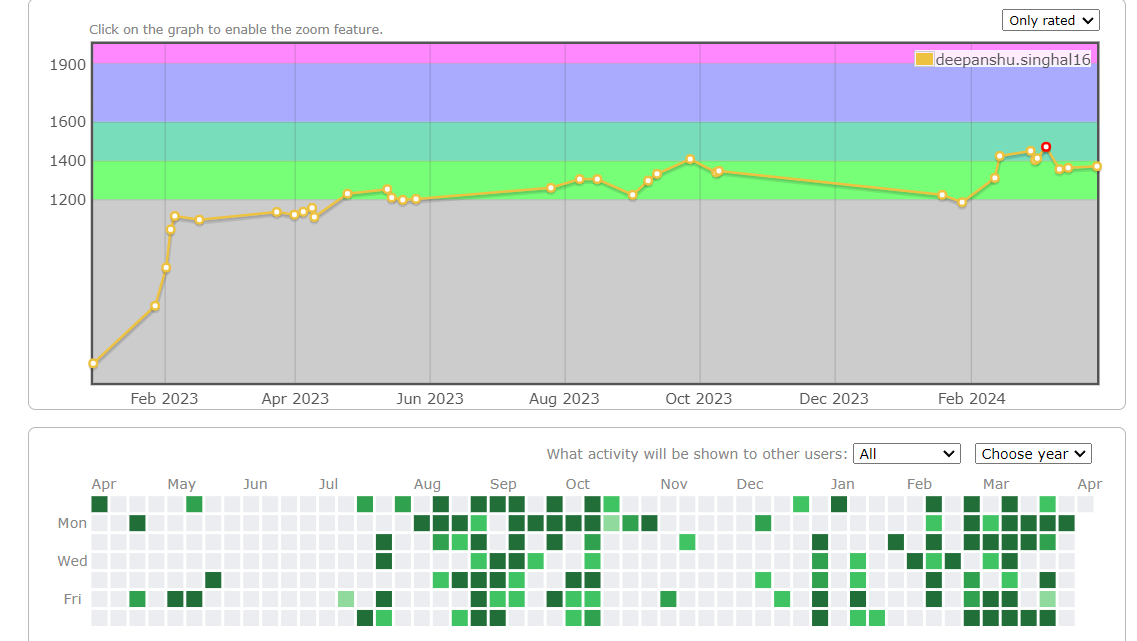
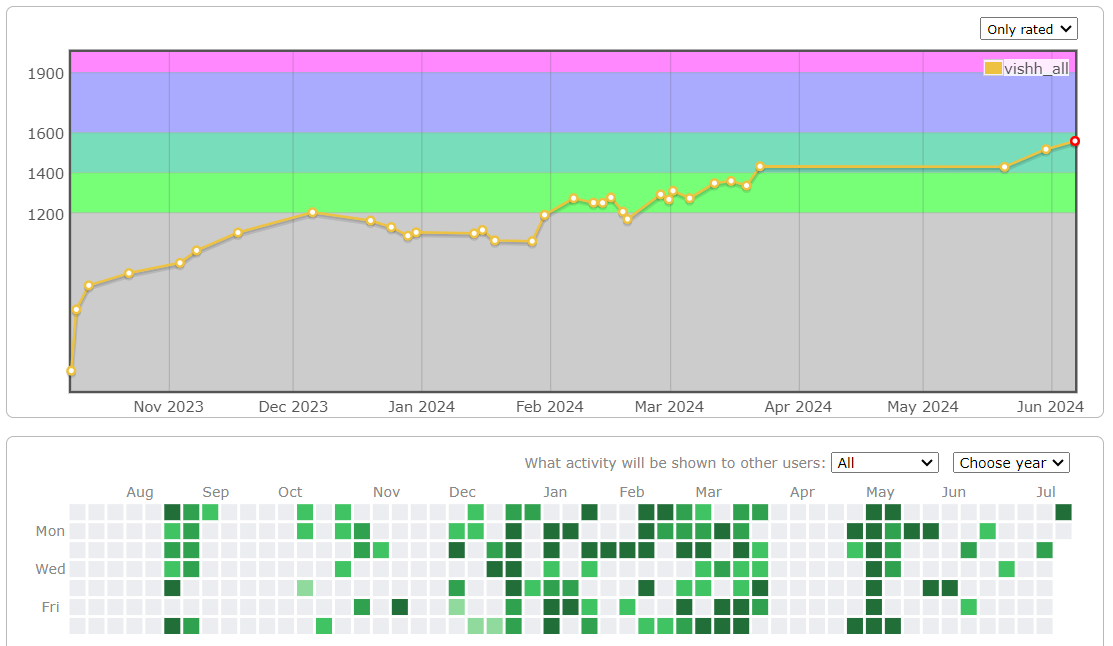
final commit

diff --git a/src/data/projectData.js b/src/data/projectData.js
@@ -1,73 +1,73 @@
 export const projects = [
     {
-        title: "StudyNotion",
-        desc: "An educational platform with full-stack integration and payment features.",
-        techStack: "MongoDB, Express, ReactJs, NodeJs",
+        title: "Music Library",
+        desc: "A full-stack web application that allows users to compose music, listen to tracks, and manage subscriptions using NextJS, Supabase, and Stripe.",
+        techStack: "NextJS, Supabase, Stripe",
         info: " This project includes full-stack development with integrated payment functionality",
-        image: require('../assets/studyNotionImg.png'),
-        sourceCode: "https://github.com/deepanshusinghal16/thestudynotion",
-        liveView: "https://thestudynotion.vercel.app/",
+        image: require('../assets/MusicLibrary.png'),
+        sourceCode: "https://github.com/vishal1807gupta/My-Music-Library",
+        liveView: "http://my-music-library.vercel.app/",
         color: 'slate-100',
         enterAnimation: 'fade-right',
         delay: 100
 
     },
     {
-        title: "BloggingSpot",
-        desc: "A platform for posting and reading blogs, developed using ReactJs and Tailwind CSS",
-        techStack: " ReactJs, Tailwind CSS",
+        title: "Tourist Hub",
+        desc: "A full-stack application featuring an interactive global room allocation system using Mapbox, with user authentication and role-based access control.",
+        techStack: " ReactJS, NodeJS, ExpressJS, MongoDB, Mapbox",
         info: " Implemented and learned contextAPI",
-        image: require('../assets/bloggingSpot.png'),
-        sourceCode: "https://github.com/deepanshusinghal16/blogPost",
-        liveView: 'https://thebloggingspot.netlify.app/',
+        image: require('../assets/TouristHub.png'),
+        sourceCode: "https://github.com/vishal1807gupta/travel",
+        liveView: 'https://tourist-hub.netlify.app/',
         color: 'slate-900',
         enterAnimation: 'fade-up',
         delay: 200
     },
     {
-        title: "Razorpay Clone",
-        desc: "Responsive Tailwind CSS styling for a Razorpay clone",
-        techStack: "HTML, Tailwind CSS",
-        info: "A project aimed at learning and using Tailwind CSS",
-        image: require('../assets/razorpayClone.png'),
-        sourceCode: "https://github.com/deepanshusinghal16/razorpayClone",
-        liveView: "https://deepanshusinghal16.github.io/razorpayClone/",
+        title: "Leaf Disease Classifier",
+        desc: "A machine learning model using Convolutional Neural Networks to classify leaf diseases, implemented with Streamlit and Docker for easy deployment.",
+        techStack: "Python, Streamlit, Docker",
+        info: "A project aimed at learning machine learning and deployment",
+        image: require('../assets/Leaf.png'),
+        sourceCode: "https://github.com/vishal1807gupta/Potatoes-Disease-Detector",
+        liveView: "https://www.youtube.com/watch?v=PmyUqE03u48&ab_channel=VishalGupta",
         color: 'slate-100',
         enterAnimation: 'fade-left',
         delay: 300
     },
     {
-        title: "Food App ",
-        desc: "Responsive mobile app developed using HTML, Tailwind CSS, and React Native",
-        techStack: "HTML, Tailwind CSS, React Native",
-        info: "Focused on learning React Native",
-        image: require('../assets/foodRecipeApp.png'),
-        sourceCode: "https://github.com/deepanshusinghal16/reactNative_postApp_frontend",
-        liveView: "https://github.com/deepanshusinghal16/reactNative_postApp_frontend",
+        title: "Corona Map",
+        desc: "A web application using Mapbox and JavaScript to display interactive global COVID-19 statistics with real-time data.",
+        techStack: "HTML, CSS, JavaScript",
+        info: "Focused on learning Mapbox and API integration",
+        image: require('../assets/Corona.png'),
+        sourceCode: "https://github.com/vishal1807gupta/Worldwide-Coronamap",
+        liveView: "https://worldwide-corona-map.netlify.app/",
         color: 'slate-900',
         enterAnimation: 'fade-right',
         delay: 100
     },
     {
-        title: "Meme Generator",
-        desc: "API-driven meme generator app using HTML, CSS, and ReactJs",
-        techStack: "HTML, CSS, ReactJs",
-        info: " Fetches memes using an API",
-        image: require('../assets/randomMemeGenerator.png'),
-        sourceCode: "https://github.com/deepanshusinghal16/randomMemeGenerator",
-        liveView: "https://deepanshusinghal16.github.io/randomMemeGenerator/",
+        title: "Weather App",
+        desc: "An API-based web application that provides detailed weather information for user-specified locations using Node.js and Express.",
+        techStack: "NodeJS, ExpressJS",
+        info: " Fetches weather data and location from API",
+        image: require('../assets/weather.png'),
+        sourceCode: "https://github.com/vishal1807gupta/expressWeb",
+        liveView: "https://weatherapp-xie6.onrender.com/",
         color: 'slate-900',
         enterAnimation: 'fade-up',
         delay: 200
     },
     {
-        title: "Tour Packages",
-        desc: "Tour package app developed with HTML, CSS, and ReactJs",
-        techStack: "HTML, CSS, ReactJs",
-        info: "A web application for exploring and booking tour packages",
-        image: require('../assets/tourpackageApp.png'),
-        sourceCode: "https://github.com/deepanshusinghal16/tour-app",
-        liveView: "https://deepanshusinghal16.github.io/tour-app/",
+        title: "Auto Analytics",
+        desc: "A full-stack web application using React.js and Flask, providing data analysis tools, visual representations, and sales forecasting using the ARIMA model.",
+        techStack: "ReactJS, Flask, ARIMA",
+        info: "A project aimed at learning data analysis and forecasting",
+        image: require('../assets/Analytics.png'),
+        sourceCode: "https://autoanalytics.vercel.app/",
+        liveView: "https://autoanalytics.vercel.app/",
         color: 'slate-900',
         enterAnimation: 'fade-left',
         delay: 300

diff --git a/src/sections/Home.jsx b/src/sections/Home.jsx
@@ -18,7 +18,7 @@ const Home = ({ dark }) => {
                     <div data-aos="fade-right" data-aos-delay="300"
                         className='text-[2rem]   flex flex-col gap-4 w-full'>
                         <p>Hey! I'm</p>
-                        <p className={`${dark ? 'text-pink-600' : 'text-sky-600 '} tracking-widest font-bold text-[2.5rem]  leading-snug md:text-[3rem]    animate-pulse`}>DEEPANSHU <br /> SINGHAL</p>
+                        <p className={`${dark ? 'text-pink-600' : 'text-sky-600 '} tracking-widest font-bold text-[2.5rem]  leading-snug md:text-[3rem]    animate-pulse`}>VISHAL <br /> GUPTA</p>
                     </div>
 
                     <div
@@ -32,7 +32,7 @@ const Home = ({ dark }) => {
                         <div className={`w-max relative  group overflow-hidden rounded-3xl  border-2 
                         ${dark ? 'border-pink-600' : 'border-sky-500'}`}>
                             <button className={`relative group-hover:z-[2] px-4 py-1 ${dark ? 'text-slate-100 ' : 'text-slate-800 '}  transition-all duration-300`}>
-                                <a href={'https://drive.google.com/file/d/1eXCJvOTBdCHThZwqRXRT3HAx-COD_sv1/view?usp=sharing'}>Hire Me</a>
+                                <a href={'https://drive.google.com/file/d/1p3QnuFMkKSdhtcCq_C57dWTpjLE51hZ-/view?usp=sharing'}>Hire Me</a>
                             </button>
                             <div className={`absolute z-1 w-full top-0 translate-x-[-100%] px-2 py-1 h-full   group-hover:translate-x-0 transition-all duration-300 ${dark ? 'bg-pink-600' : 'bg-sky-500'}`}
                             />

diff --git a/src/data/Ranking.js b/src/data/Ranking.js
@@ -1,30 +1,30 @@
 export const rankings = [
     {
-        title: "Specilist At Codeforces Max (1471)",
+        title: "Specilist At Codeforces Max (1557)",
         image: require('../assets/codeforcesRanking.png'),
         enterAnimation: 'fade-right',
         delay: 100,
-        url:'https://codeforces.com/profile/deepanshu.singhal16',
+        url:'https://codeforces.com/profile/vishh_all',
     },
     {
-        title: "Knight At LeetCode (Top 3%)",
+        title: "Knight At LeetCode (Top 2%)",
         image: require('../assets/leetcodeRanking.png'),
         enterAnimation: 'fade-left',
         delay: 200,
-        url:'https://leetcode.com/singhal03/',
+        url:'https://leetcode.com/u/vishh_all/',
     },
     {
-        title: "Solved 350+ Questions on GFG",
+        title: "Solved 300+ Questions on GFG",
         image: require('../assets/gfgRanking.png'),
         enterAnimation: 'fade-right',
         delay: 100,
-        url:'https://auth.geeksforgeeks.org/user/deepanshusinghal16',
+        url:'https://www.geeksforgeeks.org/user/vishal18w8pd/',
     },
     {
-        title: "Max 4 Star at Codechef (1800 +)",
+        title: "Max 3 Star at Codechef (1700 +)",
         image: require('../assets/codechefRanking.png'),
         enterAnimation: 'fade-left',
         delay: 200,
-        url:'https://www.codechef.com/users/d_singhal16',
+        url:'https://www.codechef.com/users/vishh_all',
     },
 ]

diff --git a/src/components/ProfileImg.jsx b/src/components/ProfileImg.jsx
@@ -27,7 +27,7 @@ const ProfileImg = ({ dark }) => {
             <img
                 src={require('../assets/awesomeImg.png')}
                 loading='lazy'
-                alt="Deepanshu"
+                alt="Vishal"
                 className={` mx-auto max-w-[400px]  z-[10]`}
             />
             
@@ -36,11 +36,6 @@ const ProfileImg = ({ dark }) => {
                 <div className='flex flex-col items-center justify-center'>
                     <p className=' font-extrabold text-3xl'> <span id='projectCounter' /> + </p>
                     <p className={`${dark ? 'text-green-600' : 'text-blue-900'} text-xl font-semibold `}>Projects</p>
-                </div>
-
-                <div className='flex flex-col items-center justify-center'>
-                    <p className='font-extrabold text-3xl'> <span id='expCounter' /> Yr+ </p>
-                    <p className={`${dark ? 'text-green-600' : 'text-blue-900'} text-xl font-semibold `}>Experience</p>
                 </div>
             </div>
         </div>

diff --git a/src/data/educationData.js b/src/data/educationData.js
@@ -1,23 +1,23 @@
 export const education = [
     {
-        title: "B.Tech (CSE)",
+        title: "B.Tech (CSAI)",
         institute: "Netaji Subhas University Of Technology",
         duration: "2021 - 2025",
-        grade: "8.42 GPA",
+        grade: "8.27 CGPA",
         percent: '80.79'
     },
     {
         title: "CBSE XII",
-        institute: "Sant Gyaneshwar Model School",
-        duration: "2019 - 2021",
-        grade: "81.2%",
-        percent: '81'
+        institute: "Rajkiya Pratibha Vikas Vidyalaya",
+        duration: "2019 - 2020",
+        grade: "93.4%",
+        percent: '93'
     },
     {
         title: "CBSE X",
-        institute: "DAV Centenary Public School",
-        duration: "2017 - 2019",
-        grade: "92%",
-        percent: '92'
+        institute: "Adarsh Secondary School",
+        duration: "2017-2018 ",
+        grade: "89.4%",
+        percent: '90'
     },
 ]

diff --git a/src/data/socialLinkData.js b/src/data/socialLinkData.js
@@ -1,22 +1,22 @@
 export const social = [
     {
-        link: 'https://github.com/deepanshusinghal16',
+        link: 'https://github.com/vishal1807gupta',
         img: require('../assets/Github.png')
     },
     {
-        link: 'https://www.linkedin.com/in/singhal03/',
+        link: 'https://www.linkedin.com/in/vishal-gupta-000151239/',
         img: require('../assets/LinkedIn.png')
     },
     {
-        link: 'https://www.instagram.com/dpnsssss/',
+        link: 'https://www.instagram.com/vishh_alll/',
         img: require('../assets/Instagram.png')
     },
     {
-        link: 'mailto:deepanshusinghal2003@gmail.com',
+        link: 'mailto:vishal1807gupta@gmail.com',
         img: require('../assets/Gmail.png')
     },
     {
-        link: 'https://wa.me/+919599521464',
+        link: 'https://wa.me/+919311615412',
         img: require('../assets/Whatsapp.png')
     },
 ]

diff --git a/src/sections/Navbar.jsx b/src/sections/Navbar.jsx
@@ -13,7 +13,7 @@ const Navbar = ({ dark, setDark }) => {
             <div className={`w-full md:w-10/12 mx-auto overflow-y-hidden flex flex-row items-center   justify-between px-4 `}>
                 <div className='cursor-pointer bg-gradient-to-r from-orange-700 via-blue-500 to-green-400 text-transparent bg-clip-text animate-gradient font-extrabold  text-[2rem] flex gap-3 items-center '>
                     <img src={require('../assets/awesomeImg.png')} alt="Logo" className='w-12 aspect-square rounded-full ' />
-                    <a href="#home" className='font-logo  text-[2.2rem]   '>Deepanshu</a>
+                    <a href="#home" className='font-logo  text-[2.2rem]   '>Vishal</a>
                 </div>
 
                 <div className='absolute right-10 mr-1 block md:hidden z-[10]'>

diff --git a/src/data/certificationData.js b/src/data/certificationData.js
@@ -1,20 +1,14 @@
 export const certificates = [
     {
-        title: `MERN Bootcamp Completion`,
-        image: require('../assets/webDevBootcamp.png'),
+        title: `Graph Camp by Codeforces Master`,
+        image: require('../assets/algo.png'),
         enterAnimation: 'fade-right',
         delay: 100
     },
     {
-        title: `CodeKaze Round-1 Selection`,
-        image: require('../assets/codekazeR1.png'),
+        title: `NPTEL - Introduction to Internet of Things`,
+        image: require('../assets/nptel.png'),
         enterAnimation: 'fade-up',
         delay: 200
-    },
-    {
-        title: `CodeKaze Round-2: AIR 8386`,
-        image: require('../assets/codekazeR2.png'),
-        enterAnimation: 'fade-left',
-        delay: 300
     },
 ]

diff --git a/src/sections/Footer.jsx b/src/sections/Footer.jsx
@@ -16,7 +16,7 @@ const Footer = ({ dark }) => {
             </a>
           </div>
           <div className='text-[2rem]  cursor-pointer  duration-300'>
-            <a href={social[4].link} target='_blank' rel="noopener noreferrer">
+            <a href={social[3].link} target='_blank' rel="noopener noreferrer">
               <BiLogoGmail />
             </a>
           </div>
@@ -38,7 +38,7 @@ const Footer = ({ dark }) => {
         </div>
 
         <div className={`${dark ? 'text-slate-100' : 'text-slate-900'} text-[1rem] text-center mx-auto max-w-max py-4`}>
-          © 2024. All rights reserved by Deepanshu Singhal
+          © 2024. All rights reserved by Vishal Gupta
         </div>
 
       </div>

diff --git a/src/data/achievementData.js b/src/data/achievementData.js
@@ -1,14 +1,14 @@
 export const achievements = [
     {
-        title: `Specialist At Codeforces with a maximum rating of 1400+`
+        title: `Specialist At Codeforces with a maximum rating of 1550+`
     },
     {
-        title: `4-Star Coder At Codechef with maximum rating of 1800+`
+        title: `3-Star Coder At Codechef with maximum rating of 1700+`
     },
     {
-        title: `Successfully solved over 1000+ problems on LeetCode.`
+        title: `Successfully solved over 700+ problems on LeetCode.`
     },
     {
-        title: `Knight at LeetCode with rating of 2000+ (Global Top 3%)`
+        title: `Knight at LeetCode with rating of 2080+ (Global Top 2%)`
     }
 ]

diff --git a/src/App.jsx b/src/App.jsx
@@ -20,7 +20,7 @@ function App() {
         splash ? (
           <div className={`${splash && 'w-[100vw] h-[100vh] flex items-center justify-center overflow-hidden bg-black'}`}>
             <div className={`w-[80vw] md:w-[50vw] splash  shadow-md`}>
-              <img src={require('./assets/DeepanshuSinghal.png')} className="aspect-video w-full" alt="Deepanshu Singhal" />
+              <img src={require('./assets/VG.png')} className="aspect-video w-full" alt="Vishal Gupta" />
             </div>
           </div>
         ) : (

diff --git a/src/sections/Contact.jsx b/src/sections/Contact.jsx
@@ -3,10 +3,10 @@ import ContactUsForm from '../form/ContactUsForm'
 const Contact = ({ dark }) => {
 
     const aboutMe = {
-        intro: "Deepanshu Singhal",
+        intro: "Vishal Gupta",
         current: ` <b>B.Tech  CSE  NSIT<b>`,
         info: "Full Stack Developer ",
-        email: `Email: <i>deepanshusinghal2003@gmail.com</i>`,
+        email: `Email: <i>vishal1807gupta@gmail.com</i>`,
         location: "Location: <b>New Delhi, IN </b>"
     }
 
